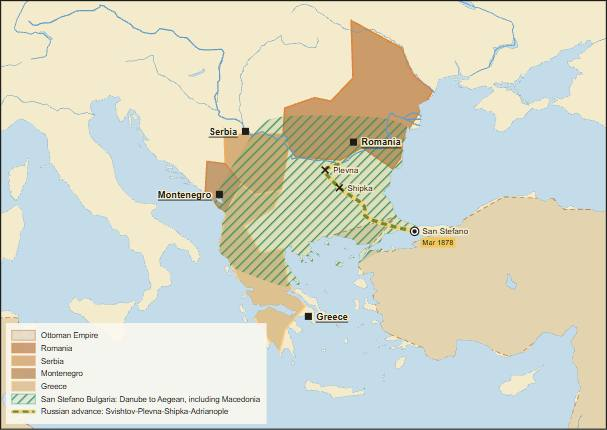
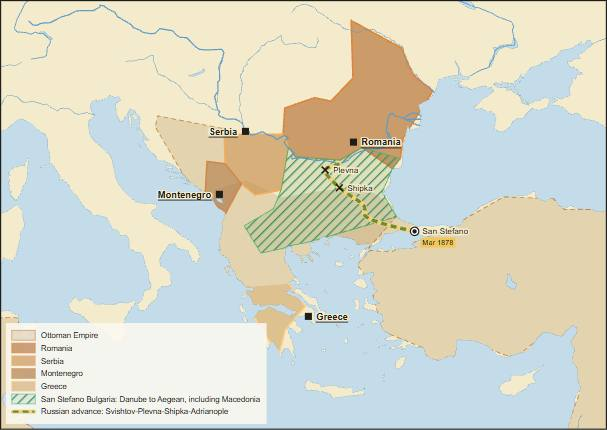
Fix Canada, Italy and Balkans round 3 plates
Canada: NWT follows the height of land, landscape map plus joining-date strip. Italy: Venetia excludes Trentino, Lombardy hatched. Balkans: clip dataset Greece/Bulgaria to 1878 borders, Ottoman Europe filled, Eastern Rumelia south of the Balkan range.

Copilot-Session: 37f2f47f-8b63-49cd-b8ce-cded564ac449

Changed region(s): [[0.2372, 0.2721, 0.682, 0.6651]]

diff --git a/atlas/plates/balkans-san-stefano-berlin-1878.js b/atlas/plates/balkans-san-stefano-berlin-1878.js
@@ -1,14 +1,19 @@
 (function(){
  const OTT="#9a6a32", RUS="#6b8c3f", BUL="#3f8f5b", SER="#b36b2e", AUS="#d8a84f", BRIT="#2f5f93";
  const sanBul=[[22.4,44.2],[27.5,44.1],[28.6,43.7],[27.9,42.0],[26.6,41.6],[25.0,40.9],[23.8,40.4],[22.6,40.3],[20.6,40.9],[20.5,41.8],[21.6,42.4],[22.4,43.0],[22.4,44.2]];
- const rumelia=[[24.0,42.0],[27.8,42.0],[27.8,41.2],[25.5,40.6],[23.8,41.0],[24.0,42.0]];
+ const rumelia=[[24.0,42.6],[25.0,42.75],[26.5,42.8],[27.9,42.9],[27.6,42.0],[26.6,41.8],[25.5,41.6],[24.3,41.8],[24.0,42.6]];
+ const ottEurope=[[19.0,42.6],[20.6,43.0],[22.4,42.4],[24.0,42.6],[26.5,42.8],[28.0,42.0],[29.2,41.3],[26.0,40.4],[23.5,39.8],[22.9,39.2],[21.0,39.05],[19.0,39.25],[19.0,42.6]];
+ const greece1832=[[19.0,39.25],[21.0,39.05],[22.9,39.2],[25.0,39.2],[25.0,35.5],[19.0,35.5],[19.0,39.25]];
+ const bulgariaBerlin=[[22.3,44.4],[28.7,44.4],[28.7,43.0],[27.9,42.9],[26.5,42.8],[25.0,42.75],[24.0,42.6],[23.0,42.25],[22.3,42.4],[22.3,44.4]];
  window.PLATES["balkans-san-stefano-berlin-1878"]={id:"balkans-san-stefano-berlin-1878",title:"The Balkans: San Stefano and Berlin, 1878",head:"National states / Balkans",folio:"80-83",viewer:"national/1878/ch-austria-hungary-balkans",figures:[{caption:"March 1878: San Stefano",share:0.5,extent:[[12,34],[35,49]],projection:"conic",layers:[
   {id:"ottoman-a",type:"area",hist:{year:1878,names:["Ottoman Empire"]},colour:OTT,tier:"influence",legend:"Ottoman Empire"},
+  {id:"ottoman-a-eu",type:"area",polygon:ottEurope,smooth:false,clipToLand:true,colour:OTT,tier:"influence"},
+  {id:"bosnia-a",type:"area",hist:{year:1880,names:["Bosnia-Herzegovina"]},colour:OTT,tier:"influence"},
   {id:"romania-a",type:"area",hist:{year:1880,names:["Romania"]},colour:SER,tier:"core",legend:"Romania"},
   {id:"serbia-a",type:"area",hist:{year:1880,names:["Serbia"]},colour:"#c78b48",tier:"core",legend:"Serbia"},
   {id:"montenegro-a",type:"area",hist:{year:1880,names:["Montenegro"]},colour:"#a86f3a",tier:"core",legend:"Montenegro"},
-  {id:"greece-a",type:"area",hist:{year:1880,names:["Greece"]},colour:"#d0a76b",tier:"core",legend:"Greece"},
-  {id:"san-bulgaria",type:"area",around:sanBul,clipToLand:true,pattern:"hatch",colour:BUL,legend:"San Stefano Bulgaria: Danube to Aegean, including Macedonia"},
+  {id:"greece-a",type:"area",hist:{year:1880,names:["Greece"]},clipPolygon:greece1832,colour:"#d0a76b",tier:"core",legend:"Greece"},
+  {id:"san-bulgaria",type:"area",hist:{year:1880,names:["Bulgaria"]},pattern:"hatch",colour:BUL,legend:"San Stefano Bulgaria: Danube to Aegean, including Macedonia"},
   {id:"russian",type:"route",style:"road",weight:2.5,colour:RUS,legend:"Russian advance: Svishtov-Plevna-Shipka-Adrianople",path:[[25.35,43.62],[24.61,43.42],[25.32,42.75],[26.55,42.02],[26.56,41.68],[28.98,41.01]]},
   {id:"plevna",type:"point",symbol:"battle",at:[24.61,43.42],name:"Plevna"},
   {id:"shipka",type:"point",symbol:"battle",at:[25.32,42.75],name:"Shipka"},
@@ -19,14 +24,17 @@
   ,{id:"greece-label",type:"point",symbol:"capital",at:[23.73,37.98],name:"Greece",labelPos:"e"}
  ],legend:{position:"bottom-left",columns:1}},{caption:"July 1878: Berlin",share:0.5,extent:[[12,34],[35,49]],projection:"conic",layers:[
   {id:"ottoman-b",type:"area",hist:{year:1878,names:["Ottoman Empire"]},colour:OTT,tier:"influence",legend:"Ottoman Empire after Berlin"},
+  {id:"ottoman-b-eu",type:"area",polygon:ottEurope,smooth:false,clipToLand:true,colour:OTT,tier:"influence"},
   {id:"austria",type:"area",hist:{year:1878,names:["Austria Hungary"]},colour:AUS,tier:"influence",legend:"Austria-Hungary"},
   {id:"bosnia",type:"area",hist:{year:1880,names:["Bosnia-Herzegovina"]},pattern:"hatch",colour:AUS,legend:"Bosnia-Herzegovina under Austrian occupation"},
-  {id:"states",type:"area",hist:{year:1880,names:["Romania","Serbia","Montenegro","Bulgaria","Greece"]},colour:SER,tier:"core",legend:"Recognized or autonomous Balkan states"},
-  {id:"rumelia",type:"area",around:rumelia,clipToLand:true,pattern:"crosshatch",colour:BUL,legend:"Eastern Rumelia separate from Bulgaria"},
+  {id:"states",type:"area",hist:{year:1880,names:["Romania","Serbia","Montenegro"]},colour:SER,tier:"core",legend:"Romania, Serbia, Montenegro: independent 1878"},
+  {id:"greece-b",type:"area",hist:{year:1880,names:["Greece"]},clipPolygon:greece1832,colour:"#d0a76b",tier:"core",legend:"Greece (Thessaly follows in 1881)"},
+  {id:"bulgaria-b",type:"area",hist:{year:1880,names:["Bulgaria"]},clipPolygon:bulgariaBerlin,colour:BUL,tier:"core",legend:"Bulgaria: autonomous principality"},
+  {id:"rumelia",type:"area",polygon:rumelia,smooth:false,clipToLand:true,pattern:"hatch",colour:BUL,legend:"Eastern Rumelia separate from Bulgaria"},
   {id:"cyprus",type:"point",symbol:"port",at:[33.38,35.18],name:"Cyprus to Britain",labelPos:"w",tag:{text:"1878",colour:"#f1c75b"}},
   {id:"berlin",type:"point",symbol:"treaty",at:[13.40,52.52],name:"Berlin",tag:{text:"Jul 1878",colour:"#f1c75b"}},
   {id:"sofia",type:"point",symbol:"capital",at:[23.32,42.70],name:"Sofia",labelPos:"s"},
   {id:"belgrade",type:"point",symbol:"capital",at:[20.46,44.82],name:"Belgrade",labelPos:"w"},
   {id:"bucharest",type:"point",symbol:"capital",at:[26.10,44.43],name:"Bucharest",labelPos:"e"}
- ],legend:{position:"bottom-left",columns:1}} ],text:{intro:"The Balkan settlement is shown as the book's comparison: a large San Stefano Bulgaria and the smaller Berlin settlement with Bosnia occupied by Austria-Hungary and Eastern Rumelia separate.",sections:[{heading:"Settlement",entries:[{date:"March 1878",text:"Russian victory produces a large Bulgaria reaching toward the Aegean and Macedonia, while Serbia, Montenegro, Romania and Greece keep their own historical shapes inside the Ottoman frame.",refs:["ottoman-a","romania-a","serbia-a","montenegro-a","greece-a","san-bulgaria","russian","plevna","shipka","san","romania-label","serbia-label","montenegro-label","greece-label"]},{date:"July 1878",text:"Berlin recognizes or confirms Balkan states, shrinks Bulgaria, separates Eastern Rumelia, gives Bosnia-Herzegovina to Austrian occupation and Cyprus to Britain.",refs:["ottoman-b","austria","states","rumelia","bosnia","cyprus","berlin","sofia","belgrade","bucharest"]}]}]},sources:["Penguin Atlas Vol. 2 pp. 80-83"]};
+ ],legend:{position:"bottom-left",columns:1}} ],text:{intro:"The Balkan settlement is shown as the book's comparison: a large San Stefano Bulgaria and the smaller Berlin settlement with Bosnia occupied by Austria-Hungary and Eastern Rumelia separate.",sections:[{heading:"Settlement",entries:[{date:"March 1878",text:"Russian victory produces a large Bulgaria reaching toward the Aegean and Macedonia, while Serbia, Montenegro, Romania and Greece keep their own historical shapes inside the Ottoman frame.",refs:["ottoman-a","romania-a","serbia-a","montenegro-a","greece-a","san-bulgaria","russian","plevna","shipka","san","romania-label","serbia-label","montenegro-label","greece-label"]},{date:"July 1878",text:"Berlin recognizes or confirms Balkan states, shrinks Bulgaria, separates Eastern Rumelia, gives Bosnia-Herzegovina to Austrian occupation and Cyprus to Britain.",refs:["ottoman-b","austria","states","rumelia","bosnia","greece-b","bulgaria-b","cyprus","berlin","sofia","belgrade","bucharest"]}]}]},sources:["Penguin Atlas Vol. 2 pp. 80-83"]};
 })();

diff --git a/atlas/plates/canadian-confederation-cpr-resistance-1867-1885.js b/atlas/plates/canadian-confederation-cpr-resistance-1867-1885.js
@@ -2,10 +2,10 @@
  const C1867="#b22d2d", C1870="#c45a3c", C1871="#3f8f5b", C1873="#8c5aa3", NWT="#d8a84f", TREATY="#6b5b2e", NL="#b8b1a1", ROAD="#5b4a3f";
  const height=[[-86,48.6],[-84,48.9],[-81,48.7],[-79.5,48.4],[-76,48.3],[-73,49.4],[-70,50.2],[-66,50.4],[-60,50.6],[-57.1,51.4]];
  const onQcClip=[...height,[-57.1,45.2],[-70,45.0],[-76,43.5],[-79,43.0],[-83,41.6],[-86,41.6],[-86,48.6]];
- const nwtClip=[[-141,49],[-123,49],[-95,49],[-95,62],[-141,62],[-141,49]];
+ const nwtClip=[[-141,49],[-95,49],[-89.5,48.0],...height,[-55,52.5],[-60,62],[-60,84],[-141,84],[-141,49]];
  const manitoba=[[-99.0,49.0],[-96.5,49.0],[-96.5,50.2],[-99.0,50.2],[-99.0,49.0]];
  const treaties=[[-97.2,49.0],[-101.5,49.0],[-105.5,49.2],[-110.8,49.6],[-114.6,50.8],[-115.5,51.6],[-113.5,52.5],[-108.8,53.6],[-103.5,52.6],[-99.5,51.0],[-96.7,50.0],[-97.2,49.0]];
- window.PLATES["canadian-confederation-cpr-resistance-1867-1885"]={id:"canadian-confederation-cpr-resistance-1867-1885",title:"Canadian Confederation, CPR and resistance, 1867-1885",head:"National states / Canada",folio:"Canadian synthesis",viewer:"national/1885/ch-canada-confederation-west",figures:[{caption:"Confederation by joining date, treaties and the CPR",share:1,extent:[[-140,40],[-50,62]],projection:"conic",layers:[
+ window.PLATES["canadian-confederation-cpr-resistance-1867-1885"]={id:"canadian-confederation-cpr-resistance-1867-1885",title:"Canadian Confederation, CPR and resistance, 1867-1885",head:"National states / Canada",folio:"Canadian synthesis",viewer:"national/1885/ch-canada-confederation-west",figures:[{caption:"Confederation by joining date, treaties and the CPR",share:0.78,extent:[[-140,40],[-50,62]],projection:"conic",layers:[
   {id:"nwt",type:"area",hist:{year:1880,names:["Canada"]},clipPolygon:nwtClip,colour:NWT,tier:"influence",legend:"North-West Territories after 1870"},
   {id:"on-qc",type:"area",regions:["CA-ON","CA-QC"],clipPolygon:onQcClip,colour:C1867,tier:"core",legend:"1867: Ontario and Quebec (southern settled extent)"},
   {id:"ns-nb",type:"area",regions:["CA-NS","CA-NB"],colour:C1867,tier:"core",legend:"1867: Nova Scotia and New Brunswick"},
@@ -21,5 +21,5 @@
   {id:"red-river",type:"point",symbol:"insurrection",at:[-97.14,49.90],name:"Red River / Winnipeg",labelPos:"n",tag:{text:"1870",colour:"#e8806a"}},
   {id:"batoche",type:"point",symbol:"battle",at:[-106.10,52.75],name:"Batoche / Riel",labelPos:"n",tag:{text:"1885",colour:"#e8806a"}},
   {id:"last",type:"point",symbol:"port",at:[-118.60,50.98],name:"Last Spike",labelPos:"n",tag:{text:"1885",colour:"#f1c75b"}}
- ],legend:{position:"bottom-left",columns:1}}],text:{intro:"Canada is redrawn with province and territorial shapes instead of a single block: 1867 provinces, Manitoba, the North-West Territories, British Columbia and PEI remain distinct, while Newfoundland is deliberately left neutral because it joined only in 1949.",sections:[{heading:"State-building",entries:[{date:"1864-1873",text:"Charlottetown and Quebec produce Confederation; Ontario, Quebec, Nova Scotia and New Brunswick begin it, Manitoba, British Columbia and PEI join in sequence.",refs:["on-qc","ns-nb","manitoba","bc","pei","charlottetown","quebec","ottawa"]},{date:"1871-1885",text:"Treaties 1-7, Red River, the CPR and Batoche show that western expansion was negotiated, coerced and resisted rather than empty-space administration.",refs:["nwt","treaties","cpr","red-river","batoche","last"]},{date:"1949",text:"Newfoundland is shown neutral in this frame; it was not part of Confederation until 1949.",refs:["newfoundland"]}]}]},sources:["Canadian synthesis added for Ford's Vol. 2 round 3 priorities"]};
+ ],legend:{position:"bottom-left",columns:1}},{caption:"Who joined when",kind:"diagram",share:0.22,diagram:{height:0.5,compartments:[],nodes:[{id:"j1867",label:"1867: four provinces",x:0.1,y:0.3,w:0.17,h:0.2,colour:C1867,strong:true},{id:"j1870",label:"1870: Manitoba",x:0.3,y:0.3,w:0.17,h:0.2,colour:C1870},{id:"j1871",label:"1871: BC",x:0.5,y:0.3,w:0.17,h:0.2,colour:C1871},{id:"j1873",label:"1873: PEI",x:0.7,y:0.3,w:0.17,h:0.2,colour:C1873},{id:"j1949",label:"1949: Nfld",x:0.9,y:0.3,w:0.17,h:0.2,colour:NL}],arrows:[{id:"a1",from:"j1867",to:"j1870"},{id:"a2",from:"j1870",to:"j1871"},{id:"a3",from:"j1871",to:"j1873"},{id:"a4",from:"j1873",to:"j1949"}]}}],text:{intro:"Canada is redrawn with province and territorial shapes instead of a single block: 1867 provinces, Manitoba, the North-West Territories, British Columbia and PEI remain distinct, while Newfoundland is deliberately left neutral because it joined only in 1949.",sections:[{heading:"State-building",entries:[{date:"1864-1873",text:"Charlottetown and Quebec produce Confederation; Ontario, Quebec, Nova Scotia and New Brunswick begin it, Manitoba, British Columbia and PEI join in sequence.",refs:["on-qc","ns-nb","manitoba","bc","pei","charlottetown","quebec","ottawa"]},{date:"1871-1885",text:"Treaties 1-7, Red River, the CPR and Batoche show that western expansion was negotiated, coerced and resisted rather than empty-space administration.",refs:["nwt","treaties","cpr","red-river","batoche","last"]},{date:"1949",text:"Newfoundland is shown neutral in this frame; it was not part of Confederation until 1949.",refs:["newfoundland"]}]}]},sources:["Canadian synthesis added for Ford's Vol. 2 round 3 priorities"]};
 })();

diff --git a/atlas/plates/italian-unification-1850-1871.js b/atlas/plates/italian-unification-1850-1871.js
@@ -1,10 +1,10 @@
 (function(){
  const S59="#3f8f5b", S60="#2f7f86", S66="#d8a84f", S70="#8c3b3b", AUS="#b8b1a1", ROAD="#5b4a3f";
  const lombardy=[[8.6,46.3],[9.3,46.5],[10.5,46.4],[10.6,45.4],[10.3,45.0],[9.5,45.0],[8.6,45.3],[8.6,46.3]];
- const venetia=[[12.4,46.6],[13.7,46.5],[13.4,45.7],[12.3,45.2],[12.2,44.9],[11.4,45.0],[10.6,45.4],[10.5,46.0],[11.0,46.5],[12.4,46.6]];
+ const venetia=[[10.6,45.85],[11.0,45.75],[11.5,45.9],[11.9,46.1],[12.3,46.6],[12.8,46.65],[13.7,46.5],[13.5,45.75],[12.3,45.2],[12.2,44.9],[11.4,45.0],[10.5,45.0],[10.6,45.4],[10.6,45.85]];
  window.PLATES["italian-unification-1850-1871"]={id:"italian-unification-1850-1871",title:"Italian unification in stages, 1850-1871",head:"National states / Italy",folio:"72-75",viewer:"national/1860/ch-italian-unification",figures:[{caption:"The stages of Italian unification",share:1,extent:[[5.5,36],[19,47.8]],projection:"conic",layers:[
   {id:"sardinia",type:"area",hist:{year:1815,names:["Kingdom of Sardinia"]},colour:S59,tier:"core",legend:"Piedmont-Sardinia, leading state"},
-  {id:"lombardy",type:"area",hist:{year:1815,names:["Lombardy"]},clipPolygon:lombardy,colour:S59,tier:"core",legend:"1859: Lombardy"},
+  {id:"lombardy",type:"area",hist:{year:1815,names:["Lombardy"]},clipPolygon:lombardy,pattern:"hatch",colour:S59,legend:"1859: Lombardy"},
   {id:"tuscany",type:"area",hist:{year:1815,names:["Tuscany","Modena","Parma"]},colour:S60,tier:"conquest",legend:"1860: central duchies"},
   {id:"south",type:"area",hist:{year:1815,names:["Kingdom of the Two Sicilies"]},colour:S60,tier:"conquest",legend:"1860: Two Sicilies"},
   {id:"venetia",type:"area",hist:{year:1815,names:["Austrian Empire"]},clipPolygon:venetia,colour:S66,tier:"conquest",legend:"1866: Venetia"},
